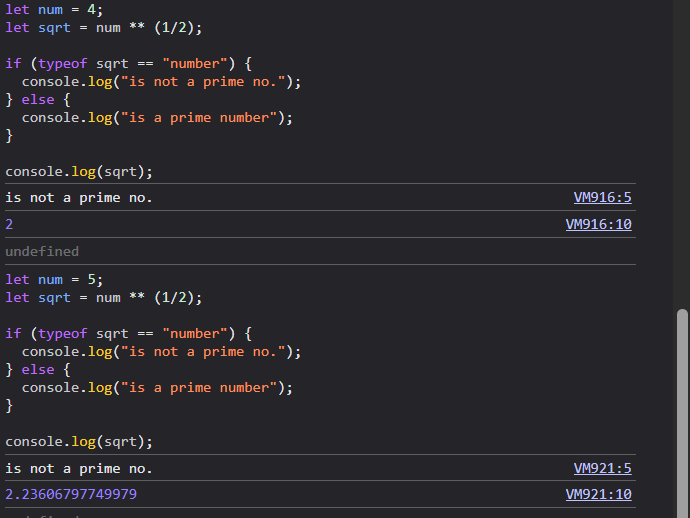
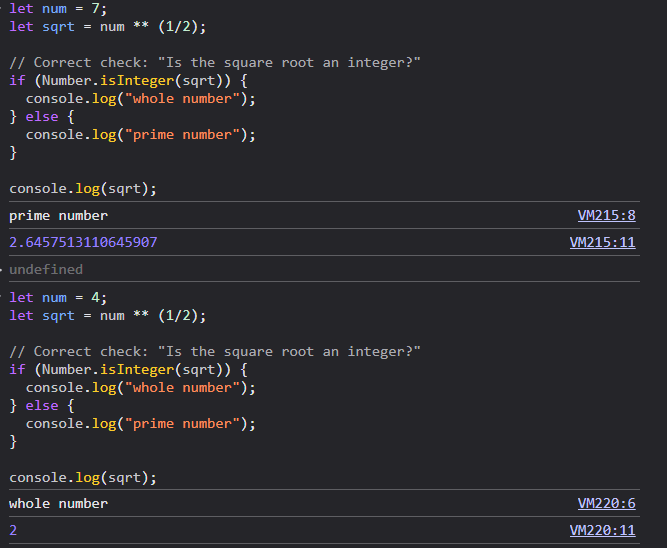
Corrected Prime Numbers Solution

diff --git a/JS Problem Solving/index.js b/JS Problem Solving/index.js
@@ -22,13 +22,13 @@ function sum_of_odd_nums(n) {
 }
 
 // Checking whether prime number or not //
-let num = 5;
+let num = 4;
 let sqrt = num ** (1/2);
 
-if (typeof sqrt == "number") {
-  console.log("is not a prime no.");
+if (Number.isInteger(sqrt)) {
+  console.log("whole number");
 } else {
-  console.log("is a prime number");
+  console.log("prime number");
 }
 
 console.log(sqrt);
